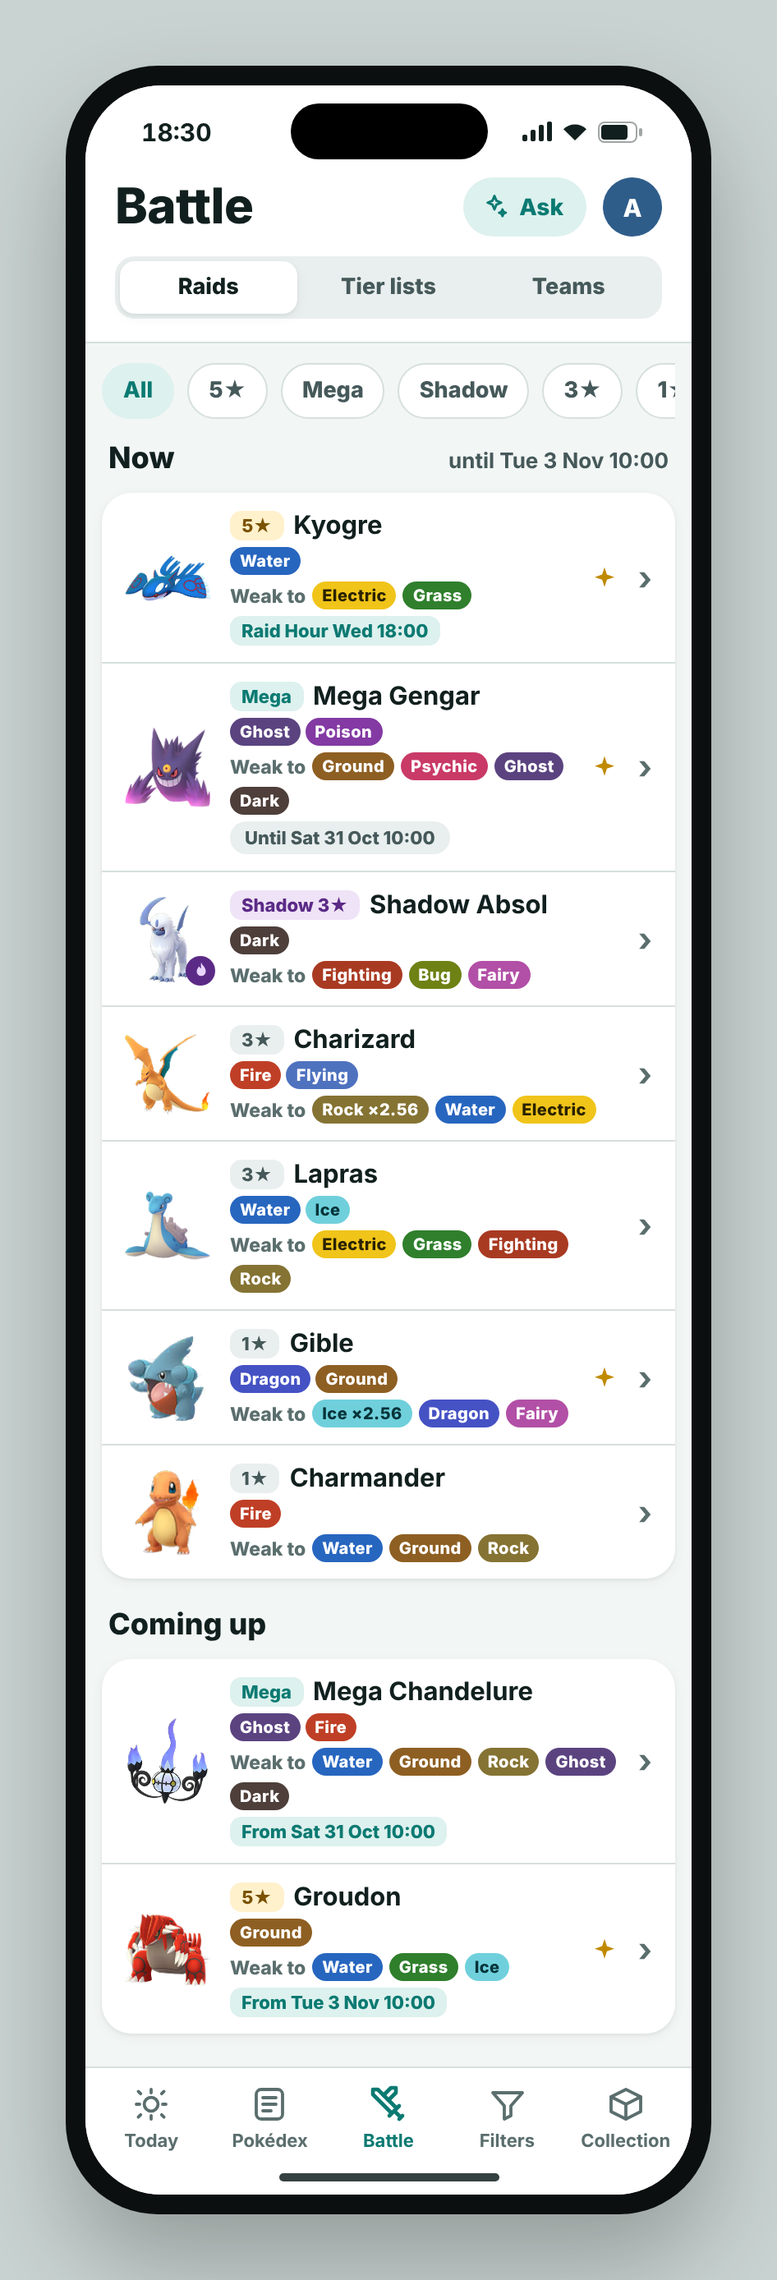
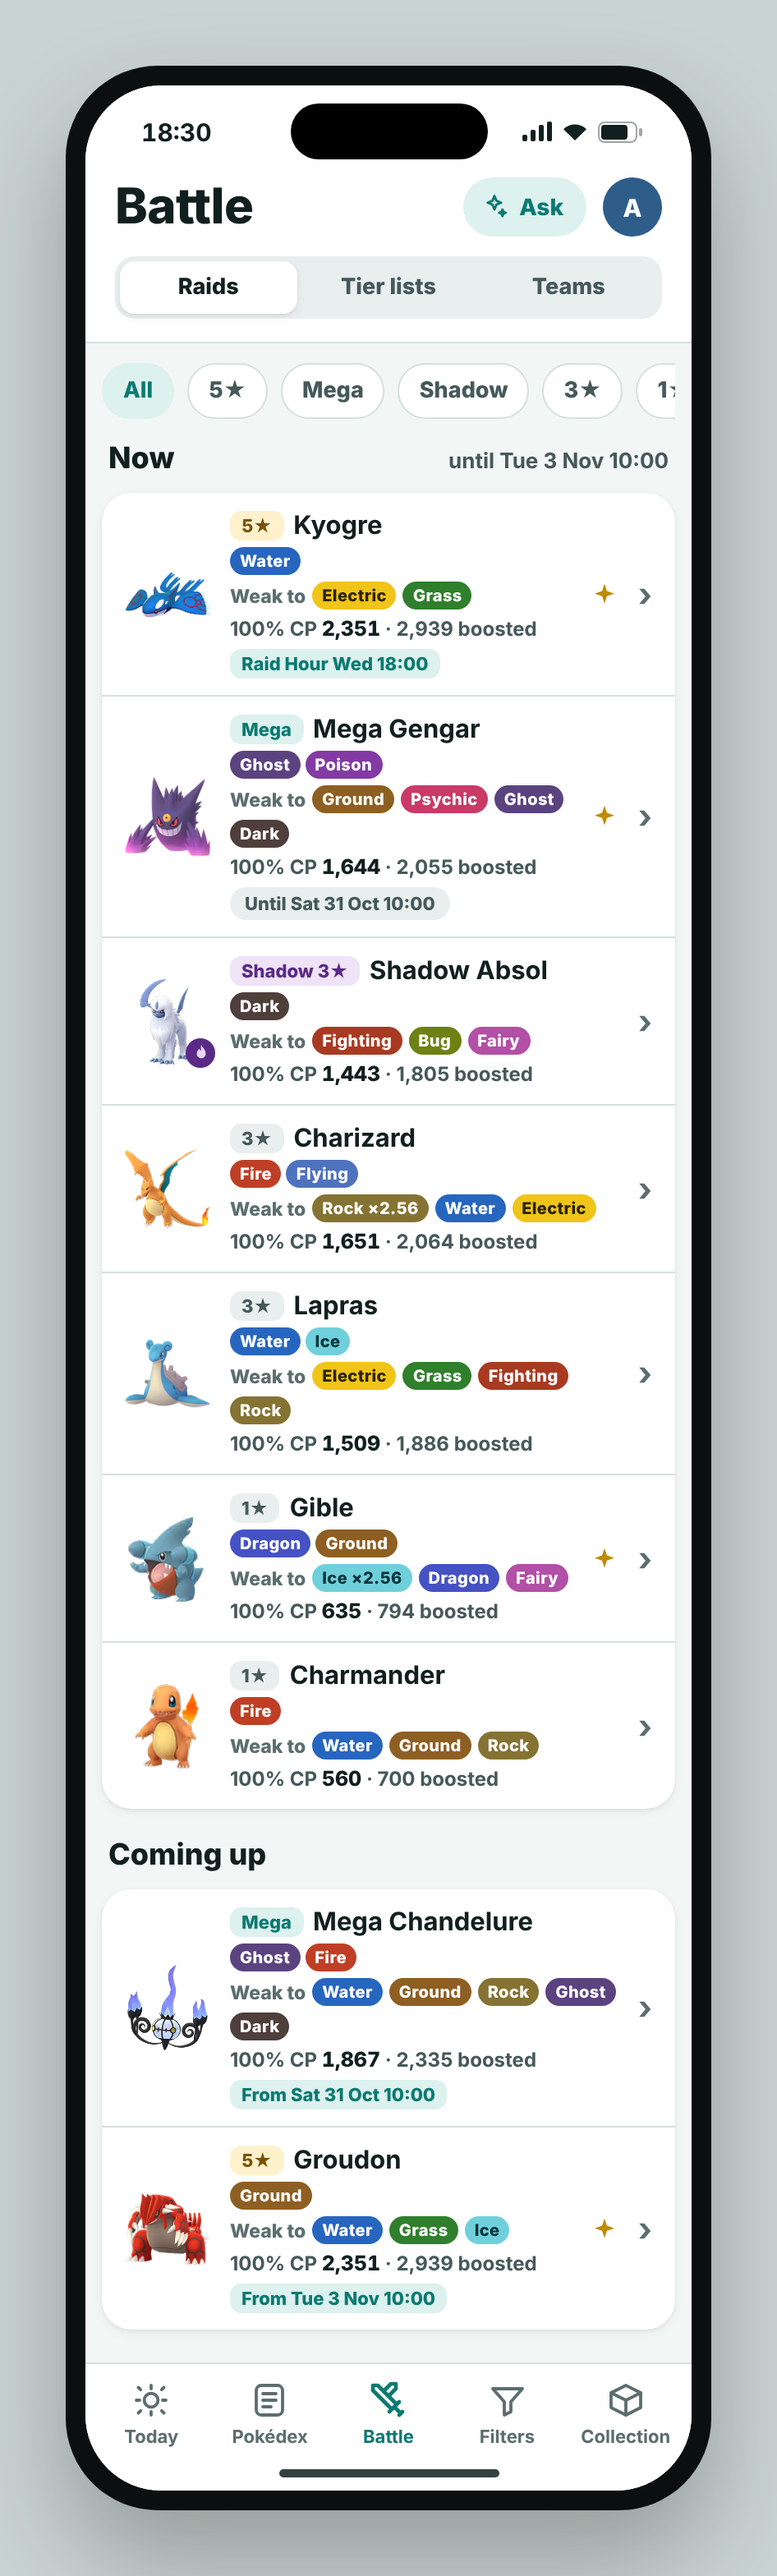
Design: C1 phone rows show 100% CP; log decision
Claude-Session: https://claude.ai/code/session_014PLsCiJiJmtsciFeh9tQXY

diff --git a/design/source/screens/C1-phone.html b/design/source/screens/C1-phone.html
@@ -2,14 +2,14 @@
 <div class="seg"><span class="on">Raids</span><span>Tier lists</span><span>Teams</span></div></header>
 <div class="scroll"><div style="padding:12px 10px 20px;display:flex;flex-direction:column;gap:10px"><div class="toolbar"><span class="tbtn on">All</span><span class="tbtn">5★</span><span class="tbtn">Mega</span><span class="tbtn">Shadow</span><span class="tbtn">3★</span><span class="tbtn">1★</span></div>
 <div class="sech"><h2>Now</h2><span>until Tue 3 Nov 10:00</span></div><div class="card" style="overflow:hidden"><div class="br"><span class="spritewrap"><img class="sprite" src="../sprites/382.png" width="52" height="52" alt=""></span><div class="nm"><span class="top"><span class="tier five">5★</span><b>Kyogre</b></span>
-<span class="types"><span class="type water">Water</span></span><span class="weak">Weak to <span class="type electric">Electric</span><span class="type grass">Grass</span></span><span style="display:flex"><span class="hour">Raid Hour Wed 18:00</span></span></div><svg class="shiny" width="16" height="16" viewBox="0 0 24 24" aria-label="Shiny available"><path d="M12 2l2.2 6.6L21 11l-6.8 2.4L12 20l-2.2-6.6L3 11l6.8-2.4z" fill="currentColor"/></svg><span class="chev">›</span></div><div class="br"><span class="spritewrap"><img class="sprite" src="../sprites/094_51.png" width="52" height="52" alt=""></span><div class="nm"><span class="top"><span class="tier mega">Mega</span><b>Mega Gengar</b></span>
-<span class="types"><span class="type ghost">Ghost</span><span class="type poison">Poison</span></span><span class="weak">Weak to <span class="type ground">Ground</span><span class="type psychic">Psychic</span><span class="type ghost">Ghost</span><span class="type dark">Dark</span></span><span style="display:flex"><span class="pill soft" style="height:20px;font-size:11px">Until Sat 31 Oct 10:00</span></span></div><svg class="shiny" width="16" height="16" viewBox="0 0 24 24" aria-label="Shiny available"><path d="M12 2l2.2 6.6L21 11l-6.8 2.4L12 20l-2.2-6.6L3 11l6.8-2.4z" fill="currentColor"/></svg><span class="chev">›</span></div><div class="br"><span class="spritewrap"><img class="sprite" src="../sprites/359.png" width="52" height="52" alt=""><span class="shadowflame"><svg width="11" height="11" viewBox="0 0 24 24"><path d="M12 2c1 4 6 6 6 12a6 6 0 0 1-12 0c0-3 2-5 3-7 1 2 3 3 3 3s-1-4 0-8z" fill="#E9D5FF"/></svg></span></span><div class="nm"><span class="top"><span class="tier shadow">Shadow 3★</span><b>Shadow Absol</b></span>
-<span class="types"><span class="type dark">Dark</span></span><span class="weak">Weak to <span class="type fighting">Fighting</span><span class="type bug">Bug</span><span class="type fairy">Fairy</span></span></div><span class="chev">›</span></div><div class="br"><span class="spritewrap"><img class="sprite" src="../sprites/006.png" width="52" height="52" alt=""></span><div class="nm"><span class="top"><span class="tier ">3★</span><b>Charizard</b></span>
-<span class="types"><span class="type fire">Fire</span><span class="type flying">Flying</span></span><span class="weak">Weak to <span class="type rock">Rock ×2.56</span><span class="type water">Water</span><span class="type electric">Electric</span></span></div><span class="chev">›</span></div><div class="br"><span class="spritewrap"><img class="sprite" src="../sprites/131.png" width="52" height="52" alt=""></span><div class="nm"><span class="top"><span class="tier ">3★</span><b>Lapras</b></span>
-<span class="types"><span class="type water">Water</span><span class="type ice">Ice</span></span><span class="weak">Weak to <span class="type electric">Electric</span><span class="type grass">Grass</span><span class="type fighting">Fighting</span><span class="type rock">Rock</span></span></div><span class="chev">›</span></div><div class="br"><span class="spritewrap"><img class="sprite" src="../sprites/443.png" width="52" height="52" alt=""></span><div class="nm"><span class="top"><span class="tier ">1★</span><b>Gible</b></span>
-<span class="types"><span class="type dragon">Dragon</span><span class="type ground">Ground</span></span><span class="weak">Weak to <span class="type ice">Ice ×2.56</span><span class="type dragon">Dragon</span><span class="type fairy">Fairy</span></span></div><svg class="shiny" width="16" height="16" viewBox="0 0 24 24" aria-label="Shiny available"><path d="M12 2l2.2 6.6L21 11l-6.8 2.4L12 20l-2.2-6.6L3 11l6.8-2.4z" fill="currentColor"/></svg><span class="chev">›</span></div><div class="br"><span class="spritewrap"><img class="sprite" src="../sprites/004.png" width="52" height="52" alt=""></span><div class="nm"><span class="top"><span class="tier ">1★</span><b>Charmander</b></span>
-<span class="types"><span class="type fire">Fire</span></span><span class="weak">Weak to <span class="type water">Water</span><span class="type ground">Ground</span><span class="type rock">Rock</span></span></div><span class="chev">›</span></div></div>
+<span class="types"><span class="type water">Water</span></span><span class="weak">Weak to <span class="type electric">Electric</span><span class="type grass">Grass</span></span><span class="pcp">100% CP <b>2,351</b> · 2,939 boosted</span><span style="display:flex"><span class="hour">Raid Hour Wed 18:00</span></span></div><svg class="shiny" width="16" height="16" viewBox="0 0 24 24" aria-label="Shiny available"><path d="M12 2l2.2 6.6L21 11l-6.8 2.4L12 20l-2.2-6.6L3 11l6.8-2.4z" fill="currentColor"/></svg><span class="chev">›</span></div><div class="br"><span class="spritewrap"><img class="sprite" src="../sprites/094_51.png" width="52" height="52" alt=""></span><div class="nm"><span class="top"><span class="tier mega">Mega</span><b>Mega Gengar</b></span>
+<span class="types"><span class="type ghost">Ghost</span><span class="type poison">Poison</span></span><span class="weak">Weak to <span class="type ground">Ground</span><span class="type psychic">Psychic</span><span class="type ghost">Ghost</span><span class="type dark">Dark</span></span><span class="pcp">100% CP <b>1,644</b> · 2,055 boosted</span><span style="display:flex"><span class="pill soft" style="height:20px;font-size:11px">Until Sat 31 Oct 10:00</span></span></div><svg class="shiny" width="16" height="16" viewBox="0 0 24 24" aria-label="Shiny available"><path d="M12 2l2.2 6.6L21 11l-6.8 2.4L12 20l-2.2-6.6L3 11l6.8-2.4z" fill="currentColor"/></svg><span class="chev">›</span></div><div class="br"><span class="spritewrap"><img class="sprite" src="../sprites/359.png" width="52" height="52" alt=""><span class="shadowflame"><svg width="11" height="11" viewBox="0 0 24 24"><path d="M12 2c1 4 6 6 6 12a6 6 0 0 1-12 0c0-3 2-5 3-7 1 2 3 3 3 3s-1-4 0-8z" fill="#E9D5FF"/></svg></span></span><div class="nm"><span class="top"><span class="tier shadow">Shadow 3★</span><b>Shadow Absol</b></span>
+<span class="types"><span class="type dark">Dark</span></span><span class="weak">Weak to <span class="type fighting">Fighting</span><span class="type bug">Bug</span><span class="type fairy">Fairy</span></span><span class="pcp">100% CP <b>1,443</b> · 1,805 boosted</span></div><span class="chev">›</span></div><div class="br"><span class="spritewrap"><img class="sprite" src="../sprites/006.png" width="52" height="52" alt=""></span><div class="nm"><span class="top"><span class="tier ">3★</span><b>Charizard</b></span>
+<span class="types"><span class="type fire">Fire</span><span class="type flying">Flying</span></span><span class="weak">Weak to <span class="type rock">Rock ×2.56</span><span class="type water">Water</span><span class="type electric">Electric</span></span><span class="pcp">100% CP <b>1,651</b> · 2,064 boosted</span></div><span class="chev">›</span></div><div class="br"><span class="spritewrap"><img class="sprite" src="../sprites/131.png" width="52" height="52" alt=""></span><div class="nm"><span class="top"><span class="tier ">3★</span><b>Lapras</b></span>
+<span class="types"><span class="type water">Water</span><span class="type ice">Ice</span></span><span class="weak">Weak to <span class="type electric">Electric</span><span class="type grass">Grass</span><span class="type fighting">Fighting</span><span class="type rock">Rock</span></span><span class="pcp">100% CP <b>1,509</b> · 1,886 boosted</span></div><span class="chev">›</span></div><div class="br"><span class="spritewrap"><img class="sprite" src="../sprites/443.png" width="52" height="52" alt=""></span><div class="nm"><span class="top"><span class="tier ">1★</span><b>Gible</b></span>
+<span class="types"><span class="type dragon">Dragon</span><span class="type ground">Ground</span></span><span class="weak">Weak to <span class="type ice">Ice ×2.56</span><span class="type dragon">Dragon</span><span class="type fairy">Fairy</span></span><span class="pcp">100% CP <b>635</b> · 794 boosted</span></div><svg class="shiny" width="16" height="16" viewBox="0 0 24 24" aria-label="Shiny available"><path d="M12 2l2.2 6.6L21 11l-6.8 2.4L12 20l-2.2-6.6L3 11l6.8-2.4z" fill="currentColor"/></svg><span class="chev">›</span></div><div class="br"><span class="spritewrap"><img class="sprite" src="../sprites/004.png" width="52" height="52" alt=""></span><div class="nm"><span class="top"><span class="tier ">1★</span><b>Charmander</b></span>
+<span class="types"><span class="type fire">Fire</span></span><span class="weak">Weak to <span class="type water">Water</span><span class="type ground">Ground</span><span class="type rock">Rock</span></span><span class="pcp">100% CP <b>560</b> · 700 boosted</span></div><span class="chev">›</span></div></div>
 <div class="sech" style="margin-top:8px"><h2>Coming up</h2></div><div class="card" style="overflow:hidden"><div class="br"><span class="spritewrap"><img class="sprite" src="../sprites/609.png" width="52" height="52" alt=""></span><div class="nm"><span class="top"><span class="tier mega">Mega</span><b>Mega Chandelure</b></span>
-<span class="types"><span class="type ghost">Ghost</span><span class="type fire">Fire</span></span><span class="weak">Weak to <span class="type water">Water</span><span class="type ground">Ground</span><span class="type rock">Rock</span><span class="type ghost">Ghost</span><span class="type dark">Dark</span></span><span style="display:flex"><span class="hour">From Sat 31 Oct 10:00</span></span></div><span class="chev">›</span></div><div class="br"><span class="spritewrap"><img class="sprite" src="../sprites/383.png" width="52" height="52" alt=""></span><div class="nm"><span class="top"><span class="tier five">5★</span><b>Groudon</b></span>
-<span class="types"><span class="type ground">Ground</span></span><span class="weak">Weak to <span class="type water">Water</span><span class="type grass">Grass</span><span class="type ice">Ice</span></span><span style="display:flex"><span class="hour">From Tue 3 Nov 10:00</span></span></div><svg class="shiny" width="16" height="16" viewBox="0 0 24 24" aria-label="Shiny available"><path d="M12 2l2.2 6.6L21 11l-6.8 2.4L12 20l-2.2-6.6L3 11l6.8-2.4z" fill="currentColor"/></svg><span class="chev">›</span></div></div></div></div>
+<span class="types"><span class="type ghost">Ghost</span><span class="type fire">Fire</span></span><span class="weak">Weak to <span class="type water">Water</span><span class="type ground">Ground</span><span class="type rock">Rock</span><span class="type ghost">Ghost</span><span class="type dark">Dark</span></span><span class="pcp">100% CP <b>1,867</b> · 2,335 boosted</span><span style="display:flex"><span class="hour">From Sat 31 Oct 10:00</span></span></div><span class="chev">›</span></div><div class="br"><span class="spritewrap"><img class="sprite" src="../sprites/383.png" width="52" height="52" alt=""></span><div class="nm"><span class="top"><span class="tier five">5★</span><b>Groudon</b></span>
+<span class="types"><span class="type ground">Ground</span></span><span class="weak">Weak to <span class="type water">Water</span><span class="type grass">Grass</span><span class="type ice">Ice</span></span><span class="pcp">100% CP <b>2,351</b> · 2,939 boosted</span><span style="display:flex"><span class="hour">From Tue 3 Nov 10:00</span></span></div><svg class="shiny" width="16" height="16" viewBox="0 0 24 24" aria-label="Shiny available"><path d="M12 2l2.2 6.6L21 11l-6.8 2.4L12 20l-2.2-6.6L3 11l6.8-2.4z" fill="currentColor"/></svg><span class="chev">›</span></div></div></div></div>
 <div data-tabbar="battle"></div></div></div></div><script src="../chrome.js"></script></body></html>

diff --git a/design/source/screens/_c1.css b/design/source/screens/_c1.css
@@ -26,3 +26,6 @@
 .bcard b.n { font-size: 17px; }
 .bcard .cp { font-size: 12.5px; font-weight: 700; color: var(--text-2); border-top: 1px solid var(--line); padding-top: 8px; display: flex; justify-content: space-between; }
 .bcard .cp b { color: var(--text); font-variant-numeric: tabular-nums; }
+.pcp { font-size: 12px; font-weight: 700; color: var(--text-2); }
+.pcp b { color: var(--text); font-variant-numeric: tabular-nums; }
+.br .nm .pcp b { font-size: 12.5px; font-weight: 800; }

diff --git a/design/source/screens/gen_c1.py b/design/source/screens/gen_c1.py
@@ -33,7 +33,7 @@ def prow(b, upcoming=False):
     tier, tc, sp, n, ts, sh, sd, c20, c25, note = b
     nt = pill(note)
     return f'''<div class="br">{sprite(sp, sd, 52)}<div class="nm"><span class="top"><span class="tier {tc}">{tier}</span><b>{n}</b></span>
-<span class="types">{T(ts)}</span><span class="weak">Weak to {weak(ts)}</span>{f'<span style="display:flex">{nt}</span>' if nt else ''}</div>{STAR if sh else ''}<span class="chev">›</span></div>'''
+<span class="types">{T(ts)}</span><span class="weak">Weak to {weak(ts)}</span><span class="pcp">100% CP <b>{c20}</b> · {c25} boosted</span>{f'<span style="display:flex">{nt}</span>' if nt else ''}</div>{STAR if sh else ''}<span class="chev">›</span></div>'''
 def dcard(b):
     tier, tc, sp, n, ts, sh, sd, c20, c25, note = b
     return f'''<div class="bcard"><div class="hd"><span class="tier {tc}">{tier}</span>{STAR if sh else ''}</div>

diff --git a/CLAUDE.md b/CLAUDE.md
@@ -152,6 +152,7 @@ Earlier product work (feature list F01–F25 with priorities, UI choices, first 
 | 2026-10-28 | Move page (B4): learners **sorted by base Attack**, no computed score (a raid score was tried and rejected as an unexplained number); rare groups (Elite TM, Legacy) shown first. |
 | 2026-10-28 | **B4 Move page approved** (raid and PvP numbers, Elite TM / Legacy / normal learner groups sorted by Attack, event note when an event gives the move). The owner likes a **raid score** for ranking, but it must be **explained, not a bare number** — to be designed with the raid counters (C2). |
 | 2026-10-28 | **B5 Type chart approved** (phone: Defending · Attacking · Full chart; desktop: picker + full chart; GO multipliers ×1.6 / ×0.63 / ×0.39, no immunities). Pokémon page matchups link to the type chart (B2 updated). |
+| 2026-10-28 | Battle tab has a **Raids · Tier lists · Teams** switcher. Raid boss list shows **100% CP (normal and boosted) on phone and desktop**, plus weaknesses, shiny marker and per-boss end dates when they differ. |
 
 ## Open decisions
 
